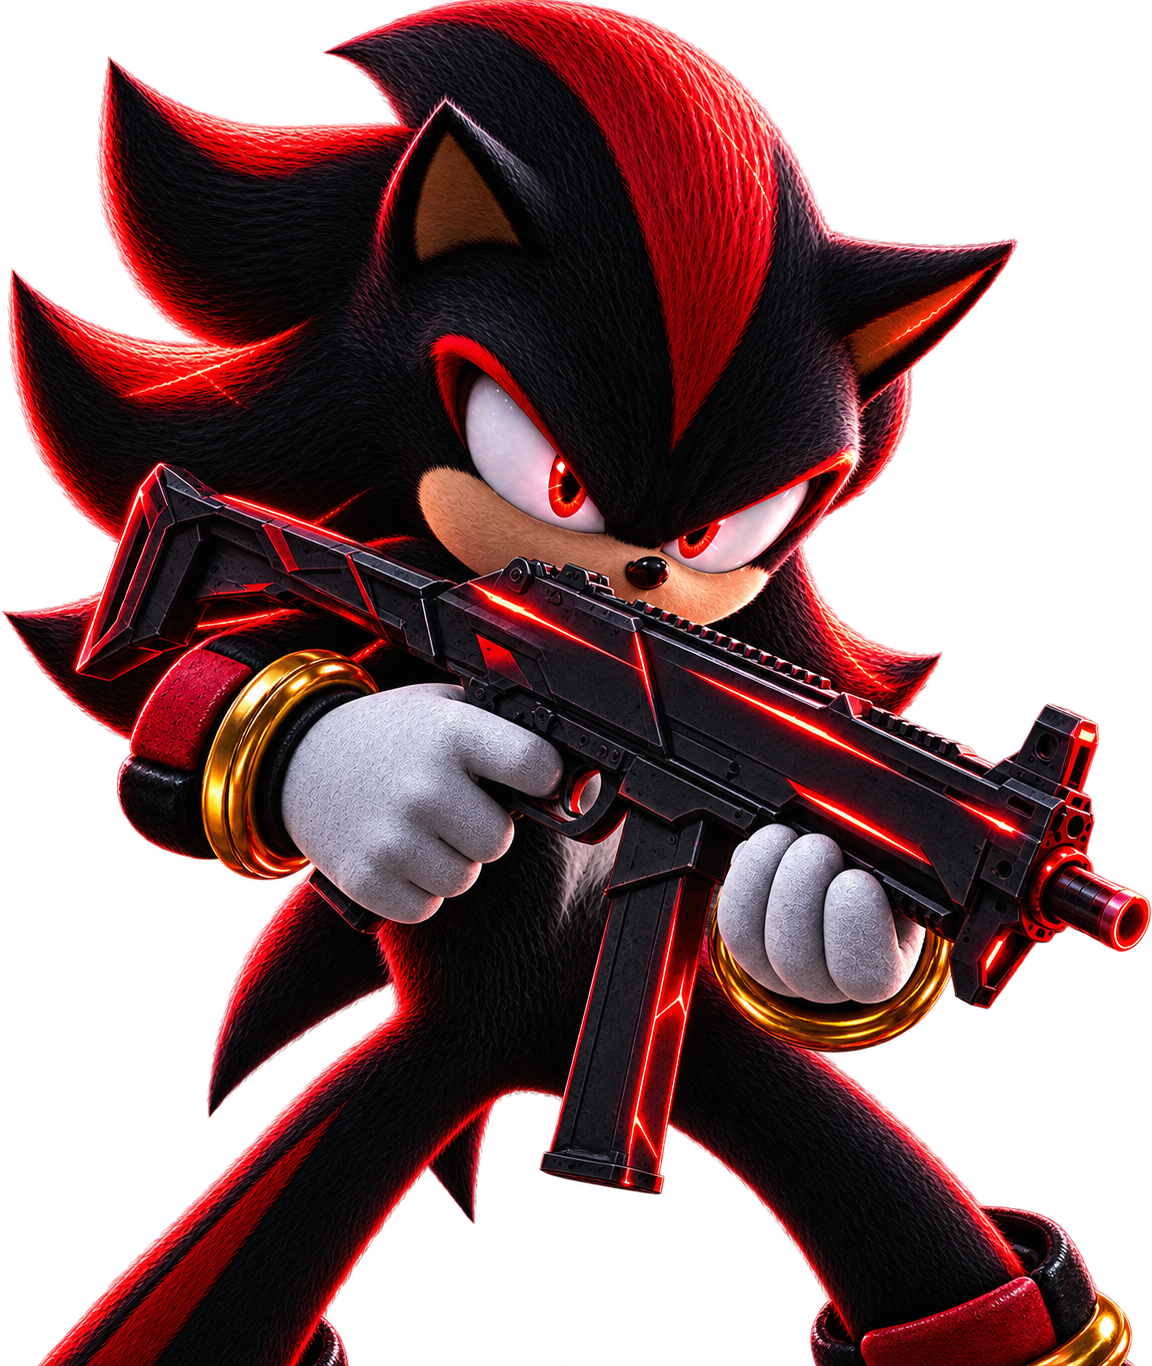
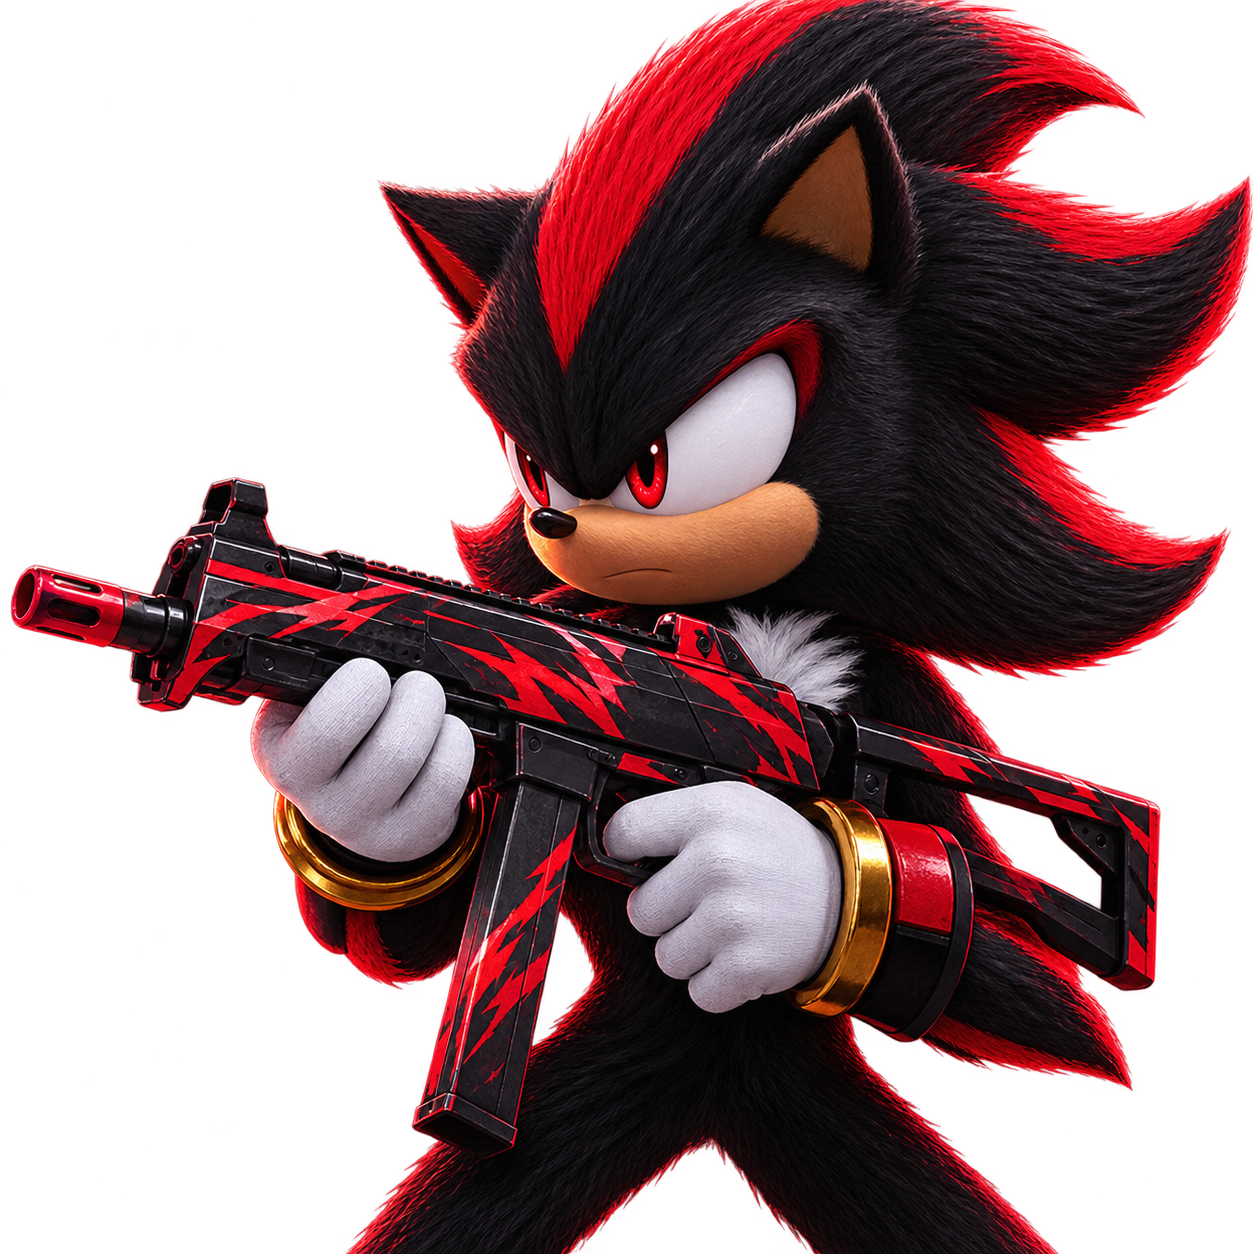
style: apply user latest local fondo.png update with explicit cache bust

diff --git a/src/pages/Home.jsx b/src/pages/Home.jsx
@@ -81,7 +81,7 @@ const Home = () => {
         {/* Right Side Image */}
         <div className="hero-media">
            <div className="media-placeholder">
-             <img src="/fondo2.png" alt="Shadow Hero" />
+             <img src="/fondo.png?v=4" alt="Shadow Hero" />
            </div>
         </div>
 
